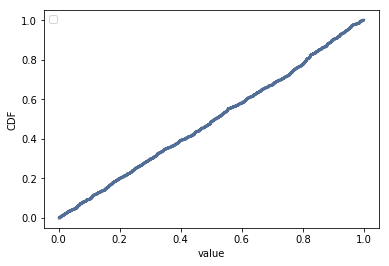
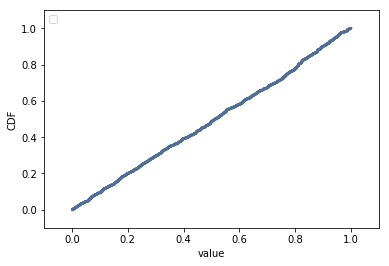
final edits, I hope

diff --git a/statistics/4-2-random_dist.md b/statistics/4-2-random_dist.md
@@ -9,21 +9,28 @@ Generate 1000 numbers from `random.random` and plot their PMF and CDF. Is the di
 ### The Solution
 ```
 import numpy as np
+
 sample2 = np.random.random(1000)
 samp2_pmf = thinkstats2.Pmf(sample2)
+
 thinkplot.Pmf(samp2_pmf)
+thinkplot.Config(xlabel='value', ylabel='PMF',
+                 axis = [-0.1, 1.1, 0, 0.01])
 ```
 
 ![PMF Figure](4-2-PMF_Fig.png)
 
-The PMF is so uniform that it appears like a block. However, it is hard to see this. Also, the probabilities are extremely low; note that the y-axis maximum is only 0.001.
+The PMF looks like a block. We would expect a uniform distribution to yield a step function for its PMF (or square/rectangle when plotted as a bar chart). However, note that the probabilities are extremely low because of the large number of values (1000) in our dataset; the maximum probability is only 0.001.
 
-The CDF yields a better way to examine a uniform distribution:
+The CDF yields a better way to examine a uniform distribution for large number of values:
 
 ```
 samp2_cdf = thinkstats2.Cdf(sample2)
+
 thinkplot.Cdf(samp2_cdf)
+thinkplot.Config(xlabel='value', ylabel='CDF',
+                 axis = [-0.1, 1.1, -0.1, 1.1])
 ```
 ![CDF Figure](4-2-CDF_Fig.png)
 
-The CDF is a straight line for uniform distributions.
+The CDF is a straight line for uniform distributions. Our random sampling yields a more or less straight line, confirming the proper functioning of `random.random`.
